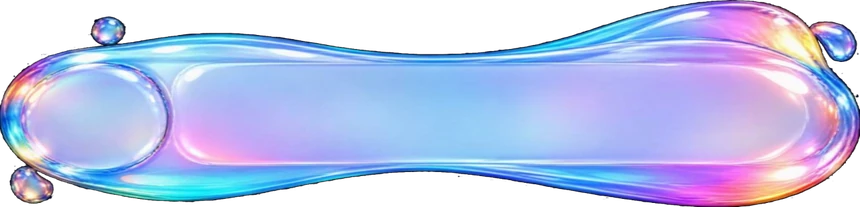
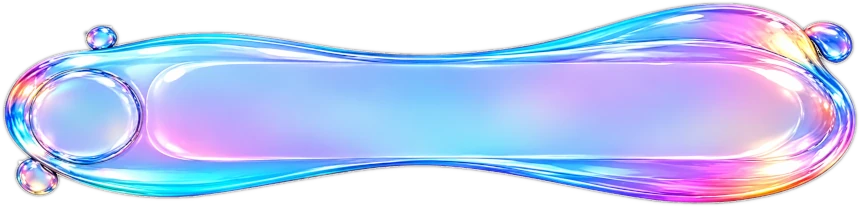
Mise à jour 20/11/2026 08:40

diff --git a/src/styles/verre-translucide.scss b/src/styles/verre-translucide.scss
@@ -194,6 +194,8 @@ $dossier: 'verre-translucide';
     // ---- Avatar sur la bannière titre : décalage en pixels par rapport à l'emplacement de base (à recaler avec les nouvelles images) ----
     --avatar-user-dx: 3px; // avatar de la conversation
     --avatar-user-dy: 0px;
+    --avatar-profil-dx: -8px; // avatar du titre (pages Moi et Profil de conversation) : décalage horizontal (négatif = vers la gauche)
+    --avatar-profil-dy: 6px; // décalage vertical (négatif = vers le haut)
 
     // ---- icone sur titre et bouton : décalage en pixels par rapport à l'emplacement de base (à recaler avec les nouvelles images) ----
     --scroll-track: #e9dcc3; // fond de l'ascenseur

diff --git a/src/styles/vert-encapsule.scss b/src/styles/vert-encapsule.scss
@@ -194,6 +194,8 @@ $dossier: 'vert-encapsule';
     // ---- Avatar sur la bannière titre : décalage en pixels par rapport à l'emplacement de base (à recaler avec les nouvelles images) ----
     --avatar-user-dx: 3px; // avatar de la conversation
     --avatar-user-dy: 0px;
+    --avatar-profil-dx: 4px; // avatar du titre (pages Moi et Profil de conversation) : décalage horizontal (négatif = vers la gauche)
+    --avatar-profil-dy: 4px; // décalage vertical (négatif = vers le haut)
 
     // ---- icone sur titre et bouton : décalage en pixels par rapport à l'emplacement de base (à recaler avec les nouvelles images) ----
     --scroll-track: #e9dcc3; // fond de l'ascenseur

diff --git a/src/styles/onde-vapeur.scss b/src/styles/onde-vapeur.scss
@@ -194,6 +194,8 @@ $dossier: 'onde-vapeur';
     // ---- Avatar sur la bannière titre : décalage en pixels par rapport à l'emplacement de base (à recaler avec les nouvelles images) ----
     --avatar-user-dx: 3px; // avatar de la conversation
     --avatar-user-dy: 0px;
+    --avatar-profil-dx: 2px; // avatar du titre (pages Moi et Profil de conversation) : décalage horizontal (négatif = vers la gauche)
+    --avatar-profil-dy: 1px; // décalage vertical (négatif = vers le haut)
 
     // ---- icone sur titre et bouton : décalage en pixels par rapport à l'emplacement de base (à recaler avec les nouvelles images) ----
     --scroll-track: #e9dcc3; // fond de l'ascenseur

diff --git a/src/styles/relief-doux.scss b/src/styles/relief-doux.scss
@@ -194,6 +194,8 @@ $dossier: 'relief-doux';
     // ---- Avatar sur la bannière titre : décalage en pixels par rapport à l'emplacement de base (à recaler avec les nouvelles images) ----
     --avatar-user-dx: 3px; // avatar de la conversation
     --avatar-user-dy: 0px;
+    --avatar-profil-dx: 2px; // avatar du titre (pages Moi et Profil de conversation) : décalage horizontal (négatif = vers la gauche)
+    --avatar-profil-dy: 7px; // décalage vertical (négatif = vers le haut)
 
     // ---- icone sur titre et bouton : décalage en pixels par rapport à l'emplacement de base (à recaler avec les nouvelles images) ----
     --scroll-track: #e9dcc3; // fond de l'ascenseur

diff --git a/src/styles/cyberpunk.scss b/src/styles/cyberpunk.scss
@@ -196,6 +196,8 @@ $dossier: 'cyberpunk';
     // ---- Avatar sur la bannière titre : décalage en pixels par rapport à l'emplacement de base (à recaler avec les nouvelles images) ----
     --avatar-user-dx: 0px; // avatar de la conversation
     --avatar-user-dy: 0px;
+    --avatar-profil-dx: 3px; // avatar du titre (pages Moi et Profil de conversation) : décalage horizontal (négatif = vers la gauche)
+    --avatar-profil-dy: 5px; // décalage vertical (négatif = vers le haut)
 
     // ---- icone sur titre et bouton : décalage en pixels par rapport à l'emplacement de base (à recaler avec les nouvelles images) ----
     --scroll-track: #0b0b22; // fond de l'ascenseur

diff --git a/src/styles/dentelle.scss b/src/styles/dentelle.scss
@@ -194,6 +194,8 @@ $dossier: 'dentelle';
     // ---- Avatar sur la bannière titre : décalage en pixels par rapport à l'emplacement de base (à recaler avec les nouvelles images) ----
     --avatar-user-dx: 3px; // avatar de la conversation
     --avatar-user-dy: 0px;
+    --avatar-profil-dx: 7px; // avatar du titre (pages Moi et Profil de conversation) : décalage horizontal (négatif = vers la gauche)
+    --avatar-profil-dy: 10px; // décalage vertical (négatif = vers le haut)
 
     // ---- icone sur titre et bouton : décalage en pixels par rapport à l'emplacement de base (à recaler avec les nouvelles images) ----
     --scroll-track: #e9dcc3; // fond de l'ascenseur

diff --git a/src/styles/gothique.scss b/src/styles/gothique.scss
@@ -194,6 +194,8 @@ $dossier: 'gothique';
     // ---- Avatar sur la bannière titre : décalage en pixels par rapport à l'emplacement de base (à recaler avec les nouvelles images) ----
     --avatar-user-dx: 10px; // avatar de la conversation
     --avatar-user-dy: 3px;
+    --avatar-profil-dx: 2px; // avatar du titre (pages Moi et Profil de conversation) : décalage horizontal (négatif = vers la gauche)
+    --avatar-profil-dy: 1px; // décalage vertical (négatif = vers le haut)
 
     // ---- icone sur titre et bouton : décalage en pixels par rapport à l'emplacement de base (à recaler avec les nouvelles images) ----
     --scroll-track: #120808; // fond de l'ascenseur

diff --git a/src/styles/gelee.scss b/src/styles/gelee.scss
@@ -194,6 +194,8 @@ $dossier: 'gelee';
     // ---- Avatar sur la bannière titre : décalage en pixels par rapport à l'emplacement de base (à recaler avec les nouvelles images) ----
     --avatar-user-dx: 3px; // avatar de la conversation
     --avatar-user-dy: 0px;
+    --avatar-profil-dx: -2px; // avatar du titre (pages Moi et Profil de conversation) : décalage horizontal (négatif = vers la gauche)
+    --avatar-profil-dy: 12px; // décalage vertical (négatif = vers le haut)
 
     // ---- icone sur titre et bouton : décalage en pixels par rapport à l'emplacement de base (à recaler avec les nouvelles images) ----
     --scroll-track: #e9dcc3; // fond de l'ascenseur

diff --git a/src/styles/givre.scss b/src/styles/givre.scss
@@ -197,6 +197,8 @@ $dossier: 'givre';
     // ---- Avatar sur la bannière titre : décalage en pixels par rapport à l'emplacement de base (à recaler avec les nouvelles images) ----
     --avatar-user-dx: 3px; // avatar de la conversation
     --avatar-user-dy: 0px;
+    --avatar-profil-dx: 10px; // avatar du titre (pages Moi et Profil de conversation) : décalage horizontal (négatif = vers la gauche)
+    --avatar-profil-dy: 5px; // décalage vertical (négatif = vers le haut)
 
     // ---- icone sur titre et bouton : décalage en pixels par rapport à l'emplacement de base (à recaler avec les nouvelles images) ----
     --scroll-track: #e9dcc3; // fond de l'ascenseur
